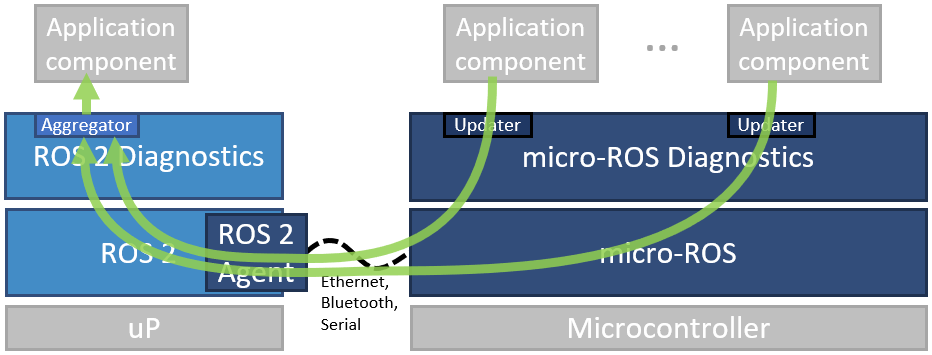
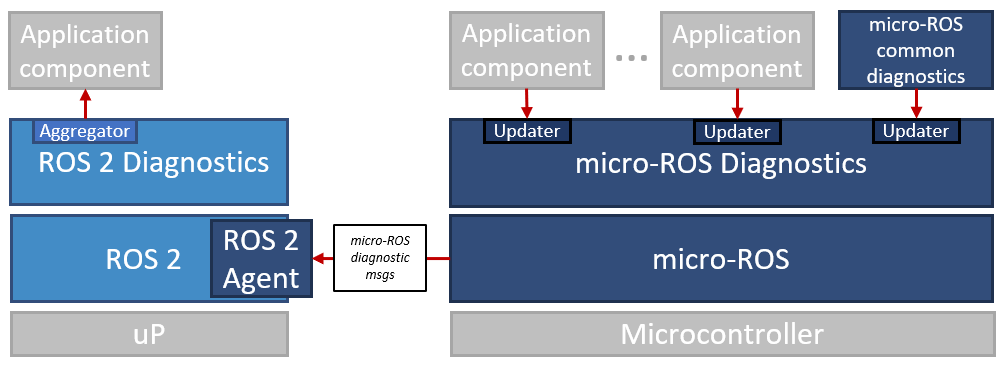
Updated diagnostics architecture description (#285)
* Improved uros diagnostic architecture diagram
* Mention necessary translation of diagnostic messages
* Update _docs/concepts/client_library/diagnostics/index.md

diff --git a/_docs/concepts/client_library/diagnostics/index.md b/_docs/concepts/client_library/diagnostics/index.md
@@ -5,14 +5,16 @@ permalink: /docs/concepts/client_library/diagnostics/
 
 Although diagnostics is not part of the ROS 2 Client Library packages (i.e., rclcpp, rclpy), it definitely can be counted to the extended client library as it provides very generic and application-independent functionalities.
 
-That's why the micro-ROS Client Library also comes with basic diagnostics functionalities. These are compatible with ROS 2 diagnostics, but comprise three features only:
+That's why the micro-ROS Client Library comes with basic diagnostics functionalities. These are compatible with ROS 2 diagnostics and comprise three features only:
 
 * Diagnostic message types (optimized for Micro-XRCE-DDS - no dynamic arrays)
 * Updater mechanisms for rclc
-* Selected basic diagnostic monitors
+* Selected basic diagnostic monitors for microcontrollers
 
-The micro-ROS diagnostics packages do not provide any aggregation mechanisms as we assume that such aggregation takes place on a microprocessor running standard ROS 2. Hence, we assume the following typical architecture:
+The micro-ROS diagnostics packages do not provide any aggregator as we assume that such aggregation takes place on a microprocessor running standard ROS 2. Hence, we assume the following typical architecture:
 
 <img src="diagnostics_architecture.png" style="display:block; width:60%; margin-left:auto; margin-right:auto;"/>
 
-For more information, please see [https://github.com/micro-ROS/micro_ros_diagnostics/](https://github.com/micro-ROS/micro_ros_diagnostics/).
+In order for the standard ROS 2 diagnostic aggregator to aggregate micro-ROS diagnostic message types, the ROS 2 agent has to translate micro-ROS diagnostic messages to standard ROS 2 diagnostic messages (*tbd*).
+
+For more information, please see [https://github.com/micro-ROS/micro_ros_diagnostics/](https://github.com/micro-ROS/micro_ros_diagnostics/). For further information on ROS 2 diagnostics, see [ROS 2 diagnostics](https://github.com/ros/diagnostics/tree/ros2-devel) and [ROS 2 diagnostic_msgs](https://github.com/ros2/common_interfaces/tree/master/diagnostic_msgs).
